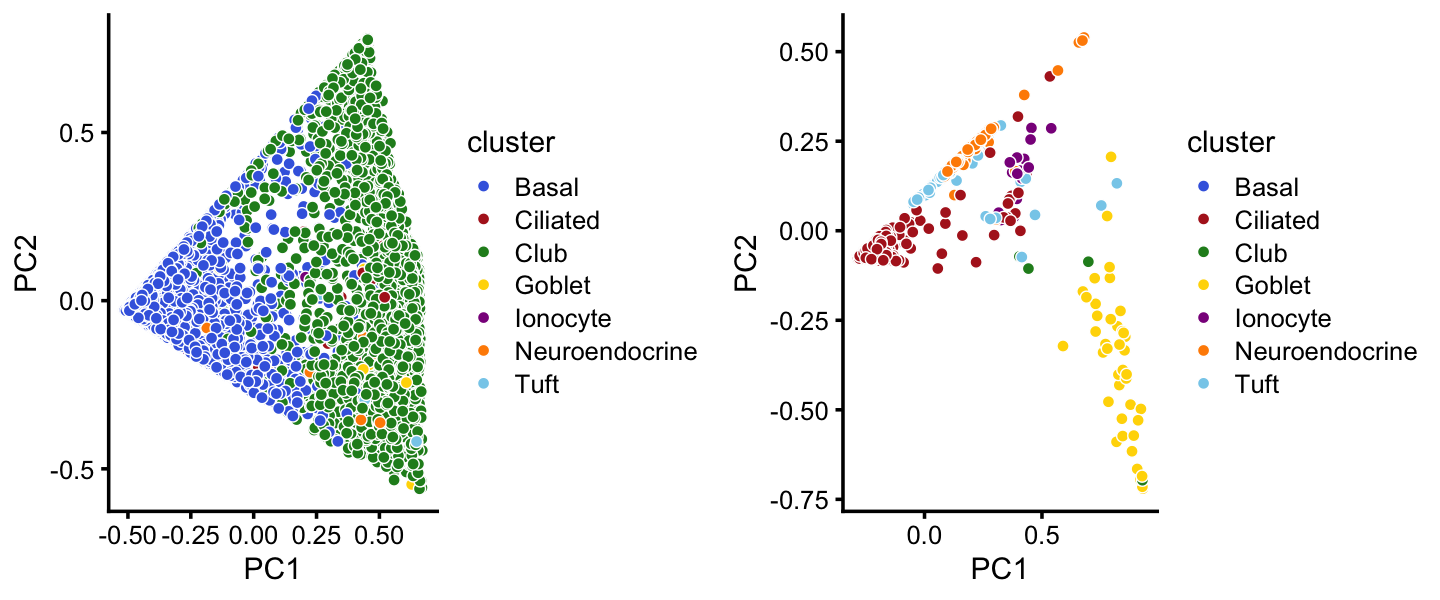
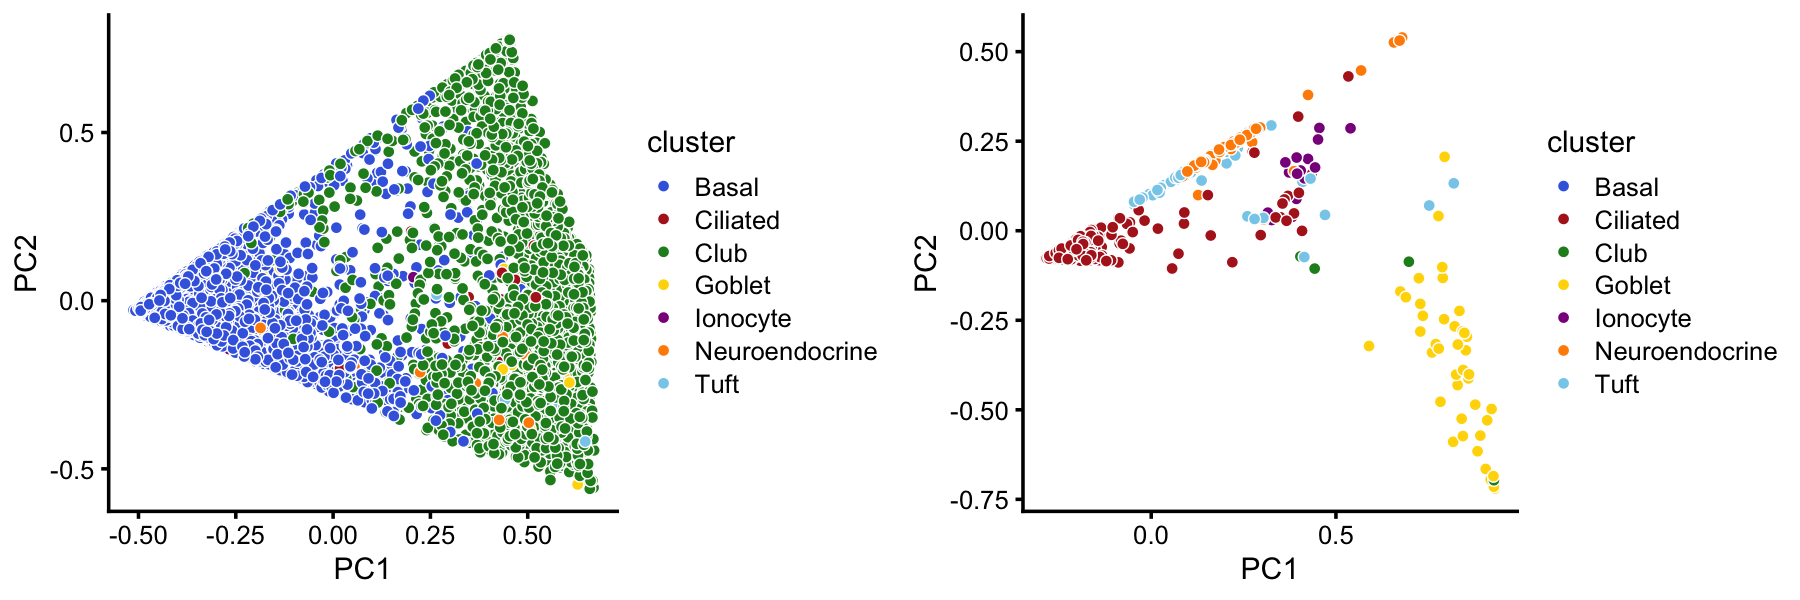
Adjusted dimensions of a PCA plot in clusters_droplet analysis.

diff --git a/docs/clusters_droplet.html b/docs/clusters_droplet.html
@@ -414,23 +414,22 @@ This reproducible <a href="http://rmarkdown.rstudio.com">R Markdown</a> analysis
 <div class="panel panel-default">
 <div class="panel-heading">
 <p class="panel-title">
-<a data-toggle="collapse" data-parent="#workflowr-checks" href="#strongRepositoryversionstrongahrefhttpsgithubcomstephenslabsinglecelltopicstree3bff1643a245995de1c9a880422ceecbe7dd92f0targetblank3bff164a"> <span class="glyphicon glyphicon-ok text-success" aria-hidden="true"></span> <strong>Repository version:</strong> <a href="https://github.com/stephenslab/single-cell-topics/tree/3bff1643a245995de1c9a880422ceecbe7dd92f0" target="_blank">3bff164</a> </a>
+<a data-toggle="collapse" data-parent="#workflowr-checks" href="#strongRepositoryversionstrongahrefhttpsgithubcomstephenslabsinglecelltopicstreeb64e34f4affab0ef622c57d651ad69e8fa5fce87targetblankb64e34fa"> <span class="glyphicon glyphicon-ok text-success" aria-hidden="true"></span> <strong>Repository version:</strong> <a href="https://github.com/stephenslab/single-cell-topics/tree/b64e34f4affab0ef622c57d651ad69e8fa5fce87" target="_blank">b64e34f</a> </a>
 </p>
 </div>
[2 lines of base64/hex data omitted]
 <div class="panel-body">
 <p>
 Great! You are using Git for version control. Tracking code development and connecting the code version to the results is critical for reproducibility.
 </p>
 <p>
-The results in this page were generated with repository version <a href="https://github.com/stephenslab/single-cell-topics/tree/3bff1643a245995de1c9a880422ceecbe7dd92f0" target="_blank">3bff164</a>. See the <em>Past versions</em> tab to see a history of the changes made to the R Markdown and HTML files.
+The results in this page were generated with repository version <a href="https://github.com/stephenslab/single-cell-topics/tree/b64e34f4affab0ef622c57d651ad69e8fa5fce87" target="_blank">b64e34f</a>. See the <em>Past versions</em> tab to see a history of the changes made to the R Markdown and HTML files.
 </p>
 <p>
 Note that you need to be careful to ensure that all relevant files for the analysis have been committed to Git prior to generating the results (you can use <code>wflow_publish</code> or <code>wflow_git_commit</code>). workflowr only checks the R Markdown file, but you know if there are other scripts or data files that it depends on. Below is the status of the Git repository when the results were generated:
 </p>
 <pre><code>
 Ignored files:
-    Ignored:    analysis/figure/
     Ignored:    data/droplet.RData
     Ignored:    data/pbmc_68k.RData
     Ignored:    data/pbmc_purified.RData
@@ -445,6 +444,9 @@ Ignored files:
     Ignored:    output/pulseseq/diff-count-pulseseq.RData
     Ignored:    output/pulseseq/fits-pulseseq.RData
     Ignored:    output/pulseseq/rds/
+
+Untracked files:
+    Untracked:  analysis/clustering-droplet.rds
 
 Unstaged changes:
     Modified:   analysis/diff_count_droplet.Rmd
@@ -489,6 +491,40 @@ Message
 </tr>
 </thead>
 <tbody>
+<tr>
+<td>
+Rmd
+</td>
+<td>
+<a href="https://github.com/stephenslab/single-cell-topics/blob/b64e34f4affab0ef622c57d651ad69e8fa5fce87/analysis/clusters_droplet.Rmd" target="_blank">b64e34f</a>
+</td>
+<td>
+Peter Carbonetto
+</td>
+<td>
+2020-10-15
+</td>
+<td>
+workflowr::wflow_publish(“clusters_droplet.Rmd”, verbose = TRUE)
+</td>
+</tr>
+<tr>
+<td>
+html
+</td>
+<td>
+<a href="https://rawcdn.githack.com/stephenslab/single-cell-topics/c679d143a300e1d909ceade9348b05241f51e91f/docs/clusters_droplet.html" target="_blank">c679d14</a>
+</td>
+<td>
+Peter Carbonetto
+</td>
+<td>
+2020-10-15
+</td>
+<td>
+Revised PCA plots showing the clustering in the clusters_droplet analysis.
+</td>
+</tr>
 <tr>
 <td>
 Rmd
@@ -1676,6 +1712,17 @@ Date
 <tbody>
 <tr>
 <td>
+<a href="https://github.com/stephenslab/single-cell-topics/blob/c679d143a300e1d909ceade9348b05241f51e91f/docs/figure/clusters_droplet.Rmd/clustering-8-1.png" target="_blank">c679d14</a>
+</td>
+<td>
+Peter Carbonetto
+</td>
+<td>
+2020-10-15
+</td>
+</tr>
+<tr>
+<td>
 <a href="https://github.com/stephenslab/single-cell-topics/blob/d707238a4eff6946e4e84130725678bfcb8ff27f/docs/figure/clusters_droplet.Rmd/clustering-8-1.png" target="_blank">d707238</a>
 </td>
 <td>
@@ -1737,7 +1784,44 @@ p12b &lt;- pca_plot(fit2,fill = samples[rows2,&quot;tissue&quot;]) +
         scale_fill_manual(values = tissue_colors,drop = FALSE) +
         labs(fill = &quot;cluster&quot;)
 plot_grid(p12a,p12b,nrow = 1,ncol = 2)</code></pre>
-<p><img src="figure/clusters_droplet.Rmd/clustering-10-1.png" width="720" style="display: block; margin: auto;" /></p>
+<p><img src="figure/clusters_droplet.Rmd/clustering-10-1.png" width="900" style="display: block; margin: auto;" /></p>
+<p>
+<button type="button" class="btn btn-default btn-xs btn-workflowr btn-workflowr-fig" data-toggle="collapse" data-target="#fig-clustering-10-1">
+Past versions of clustering-10-1.png
+</button>
+</p>
+<div id="fig-clustering-10-1" class="collapse">
+<div class="table-responsive">
+<table class="table table-condensed table-hover">
+<thead>
+<tr>
+<th>
+Version
+</th>
+<th>
+Author
+</th>
+<th>
+Date
+</th>
+</tr>
+</thead>
+<tbody>
+<tr>
+<td>
+<a href="https://github.com/stephenslab/single-cell-topics/blob/c679d143a300e1d909ceade9348b05241f51e91f/docs/figure/clusters_droplet.Rmd/clustering-10-1.png" target="_blank">c679d14</a>
+</td>
+<td>
+Peter Carbonetto
+</td>
+<td>
+2020-10-15
+</td>
+</tr>
+</tbody>
+</table>
+</div>
+</div>
 <p>By computing inter-cluster and inter-topic expression differences by the <em>total variation distance</em> in relative expression levels, we see that the clusters identified above show greater differentiation in gene expression, and the topics show more differentiation than the clusters.</p>
 <pre class="r"><code>fit_montoro &lt;- init_poisson_nmf_from_clustering(counts,samples$tissue)
 fit_cluster &lt;- init_poisson_nmf_from_clustering(counts,samples$cluster)
@@ -1810,6 +1894,17 @@ Date
 <tbody>
 <tr>
 <td>
+<a href="https://github.com/stephenslab/single-cell-topics/blob/c679d143a300e1d909ceade9348b05241f51e91f/docs/figure/clusters_droplet.Rmd/clustering-12-1.png" target="_blank">c679d14</a>
+</td>
+<td>
+Peter Carbonetto
+</td>
+<td>
+2020-10-15
+</td>
+</tr>
+<tr>
+<td>
 <a href="https://github.com/stephenslab/single-cell-topics/blob/d9bf10daf49c48601d1918b63efb774ecc9944a7/docs/figure/clusters_droplet.Rmd/clustering-12-1.png" target="_blank">d9bf10d</a>
 </td>
 <td>
@@ -1852,6 +1947,43 @@ p14 &lt;- ggplot(pdat,aes(x = montoro,y = clusters)) +
   theme_cowplot(font_size = 9)
 print(p14)</code></pre>
 <p><img src="figure/clusters_droplet.Rmd/clustering-13-1.png" width="300" style="display: block; margin: auto;" /></p>
+<p>
+<button type="button" class="btn btn-default btn-xs btn-workflowr btn-workflowr-fig" data-toggle="collapse" data-target="#fig-clustering-13-1">
+Past versions of clustering-13-1.png
+</button>
+</p>
+<div id="fig-clustering-13-1" class="collapse">
+<div class="table-responsive">
+<table class="table table-condensed table-hover">
+<thead>
+<tr>
+<th>
+Version
+</th>
+<th>
+Author
+</th>
+<th>
+Date
+</th>
+</tr>
+</thead>
+<tbody>
+<tr>
+<td>
+<a href="https://github.com/stephenslab/single-cell-topics/blob/c679d143a300e1d909ceade9348b05241f51e91f/docs/figure/clusters_droplet.Rmd/clustering-13-1.png" target="_blank">c679d14</a>
+</td>
+<td>
+Peter Carbonetto
+</td>
+<td>
+2020-10-15
+</td>
+</tr>
+</tbody>
+</table>
+</div>
+</div>
 </div>
 <div id="structure-plot" class="section level2">
 <h2>Structure plot</h2>
